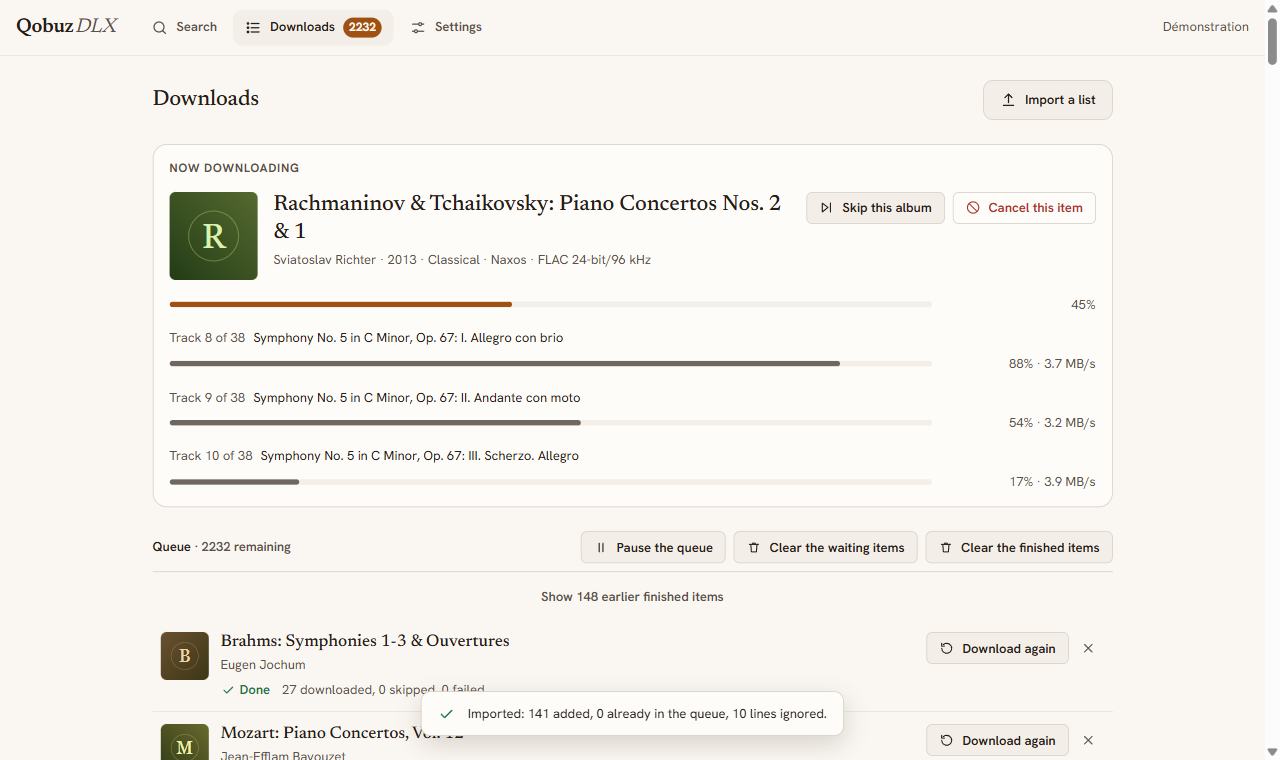
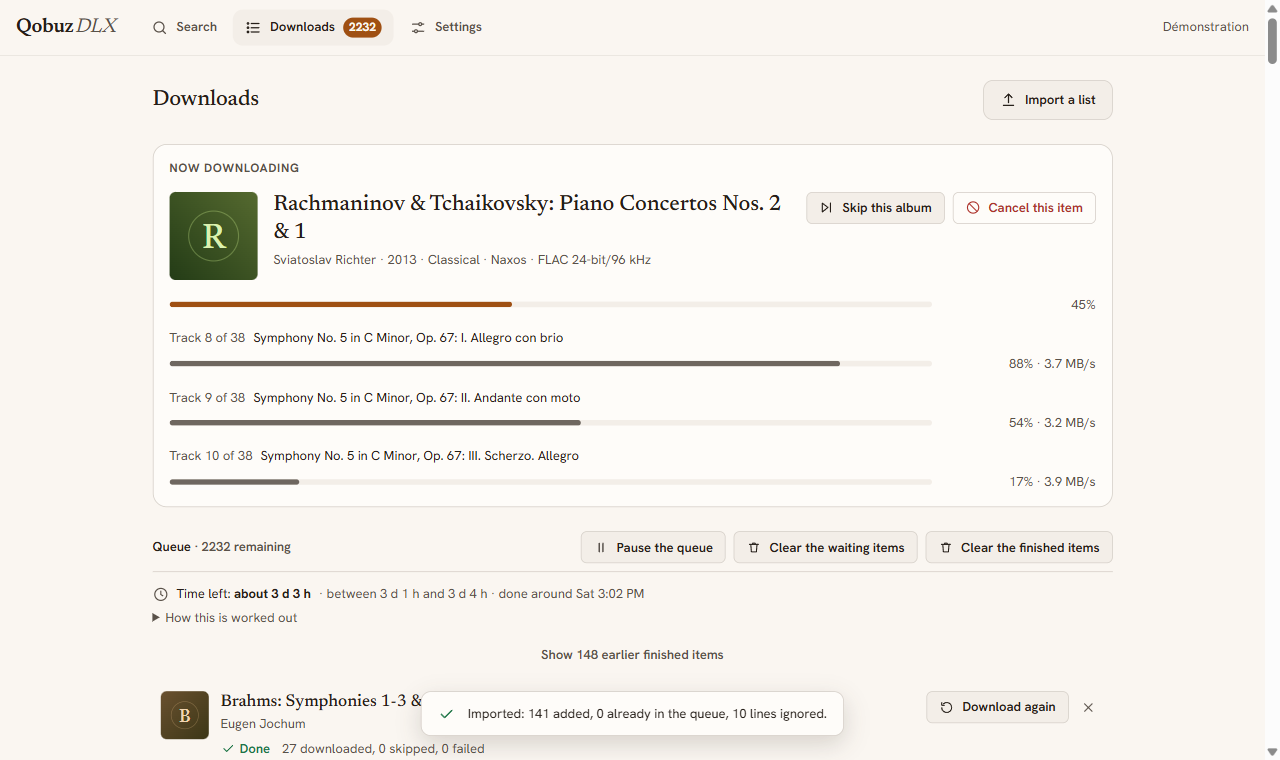
docs(demo): give the fake finished albums a duration and a weight, and retake the screenshots with the time left

diff --git a/docs/demo/mock-api.js b/docs/demo/mock-api.js
@@ -215,10 +215,15 @@ async (page) => {
 		const done = finishedIn(scene);
 		const running = scene === 'queue' ? FINISHED : -1;
 		const items = [];
+		// Finished albums took what their tracks needed, so that the estimate has something to learn from
+		let clock = now() - 5400;
 		for (let index = 0; index < (empty ? 0 : TOTAL); index++) {
 			const album = catalogue[order[index]];
 			const status = index < done ? 'completed' : index === running ? 'running' : 'pending';
 			const failed = status === 'completed' && index % 41 === 7;
+			const took = Math.round(album.tracks_count * (1.8 + draw() * 1.4));
+			const startedAt = clock;
+			if (status === 'completed') clock += took + 6;
 			items.push({
 				id: `q${String(index).padStart(5, '0')}`,
 				url: album.url,
@@ -230,10 +235,11 @@ async (page) => {
 				status: failed ? 'failed' : status,
 				error: failed ? 'Qobuz does not offer this album for download in your country.' : null,
 				enqueued_at: now() - 7200,
-				started_at: status === 'pending' ? null : now() - 5400 + index * 25,
-				finished_at: status === 'completed' || failed ? now() - 5400 + index * 25 + 22 : null,
+				started_at: status === 'pending' ? null : startedAt,
+				finished_at: status === 'completed' || failed ? startedAt + took : null,
 				downloaded: status === 'completed' && !failed ? album.tracks_count : status === 'running' ? 7 : 0,
 				skipped: 0,
+				bytes: status === 'completed' && !failed ? album.tracks_count * (album.bit_depth === 24 ? 41_000_000 : 29_000_000) : 0,
 				failures: []
 			});
 		}
